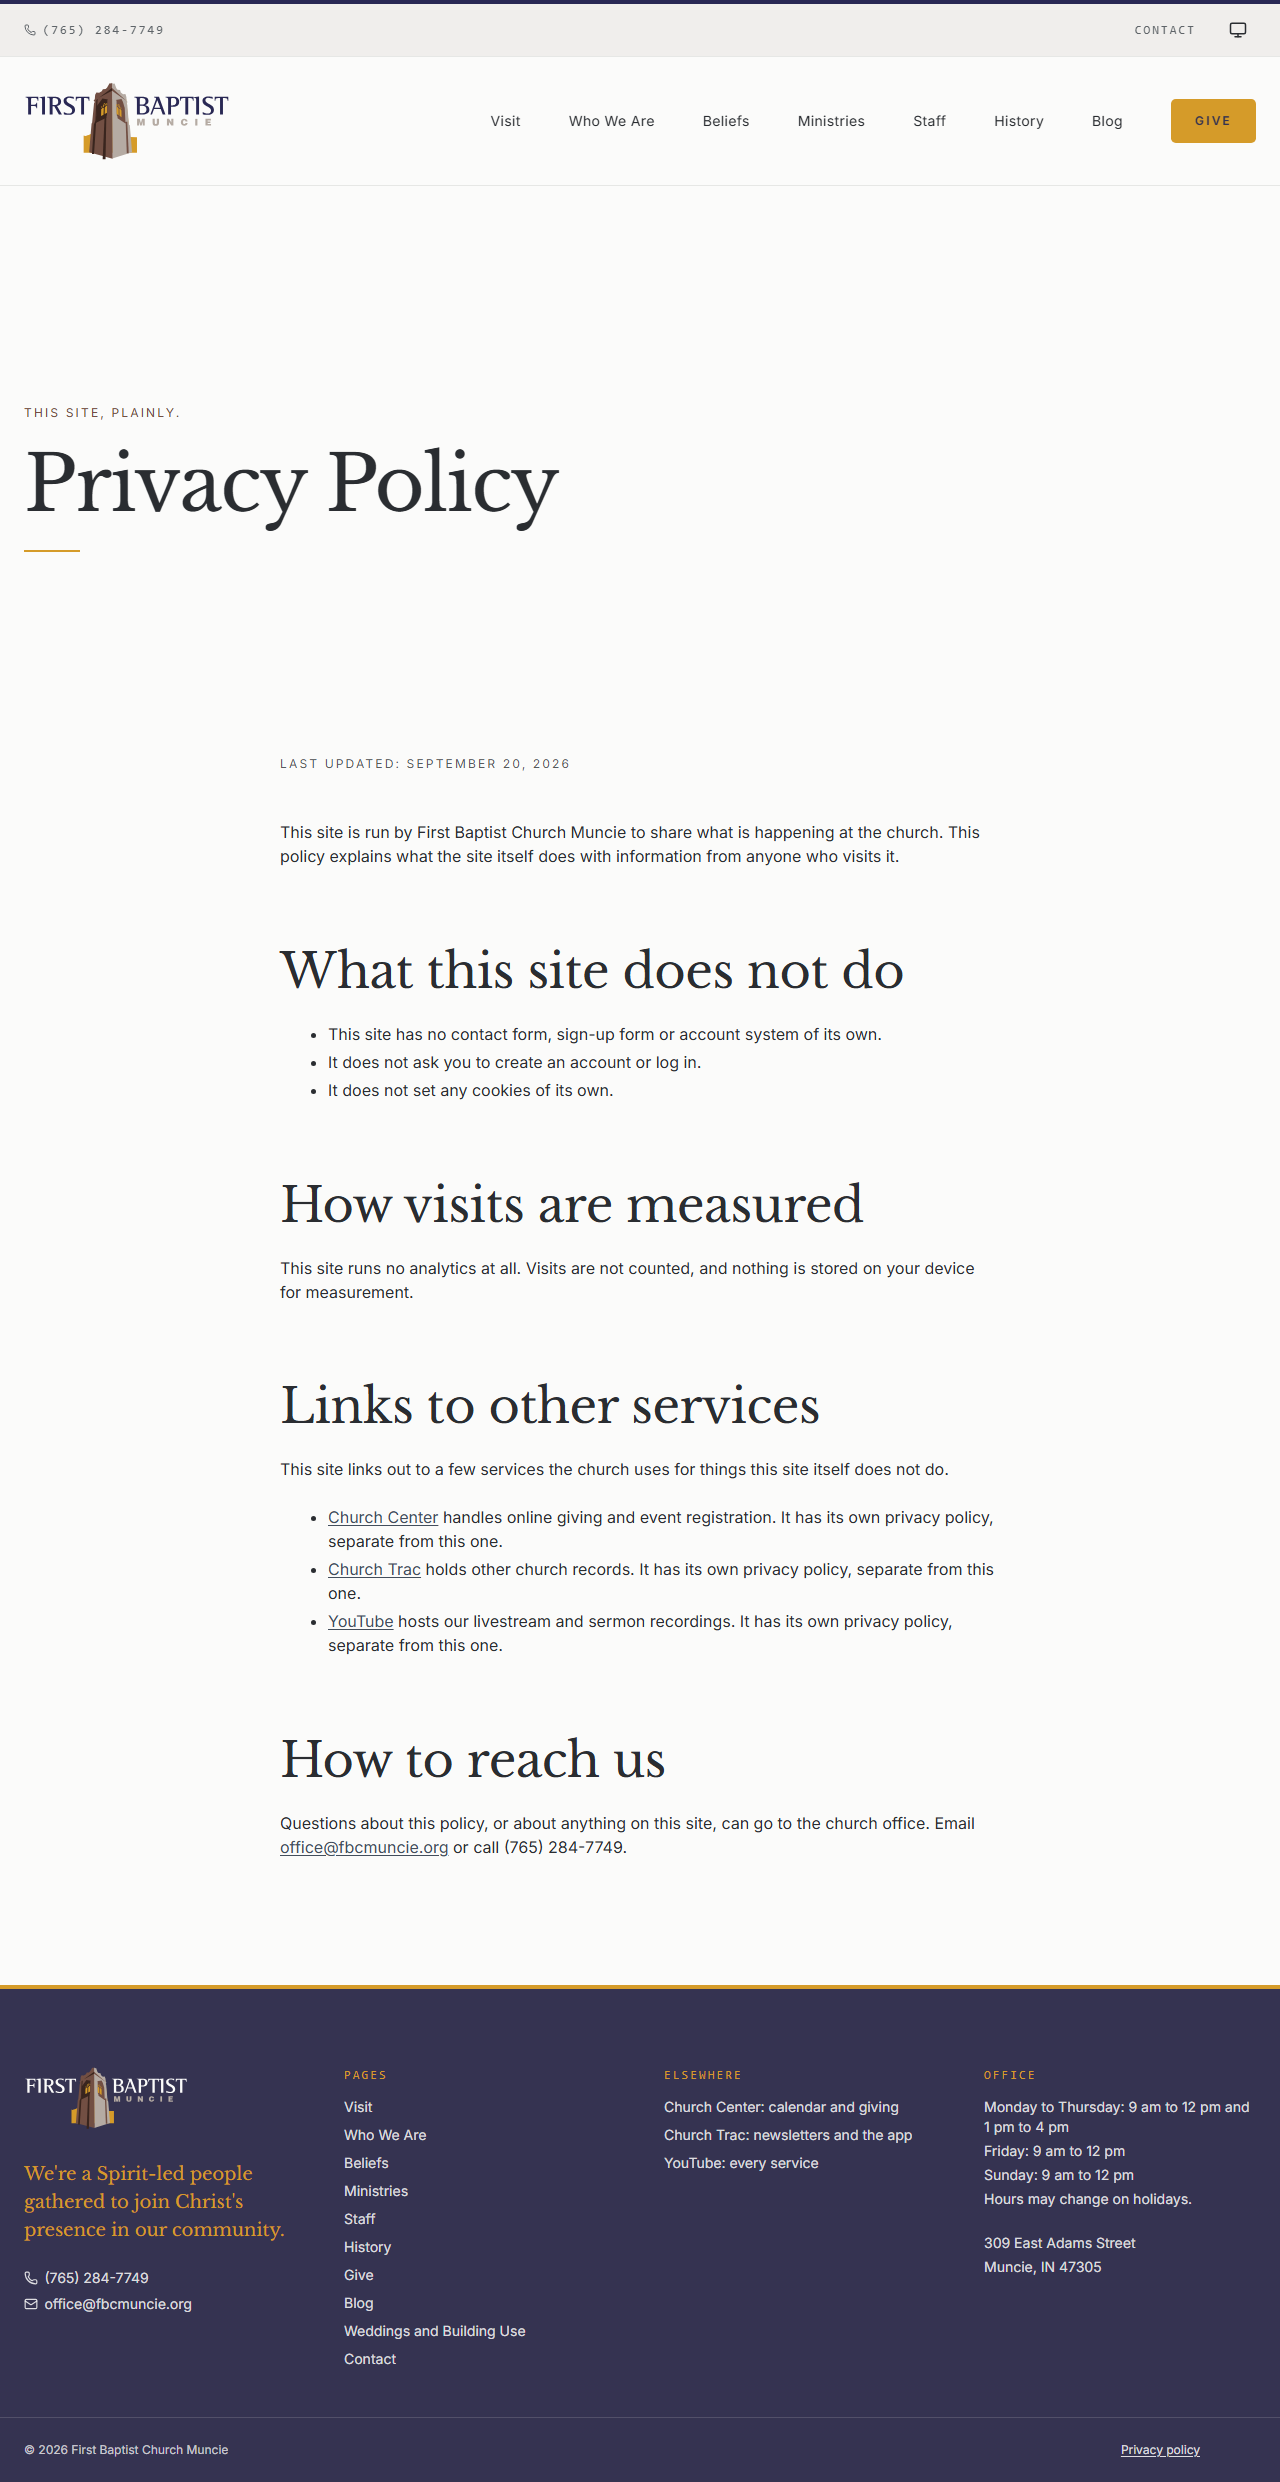
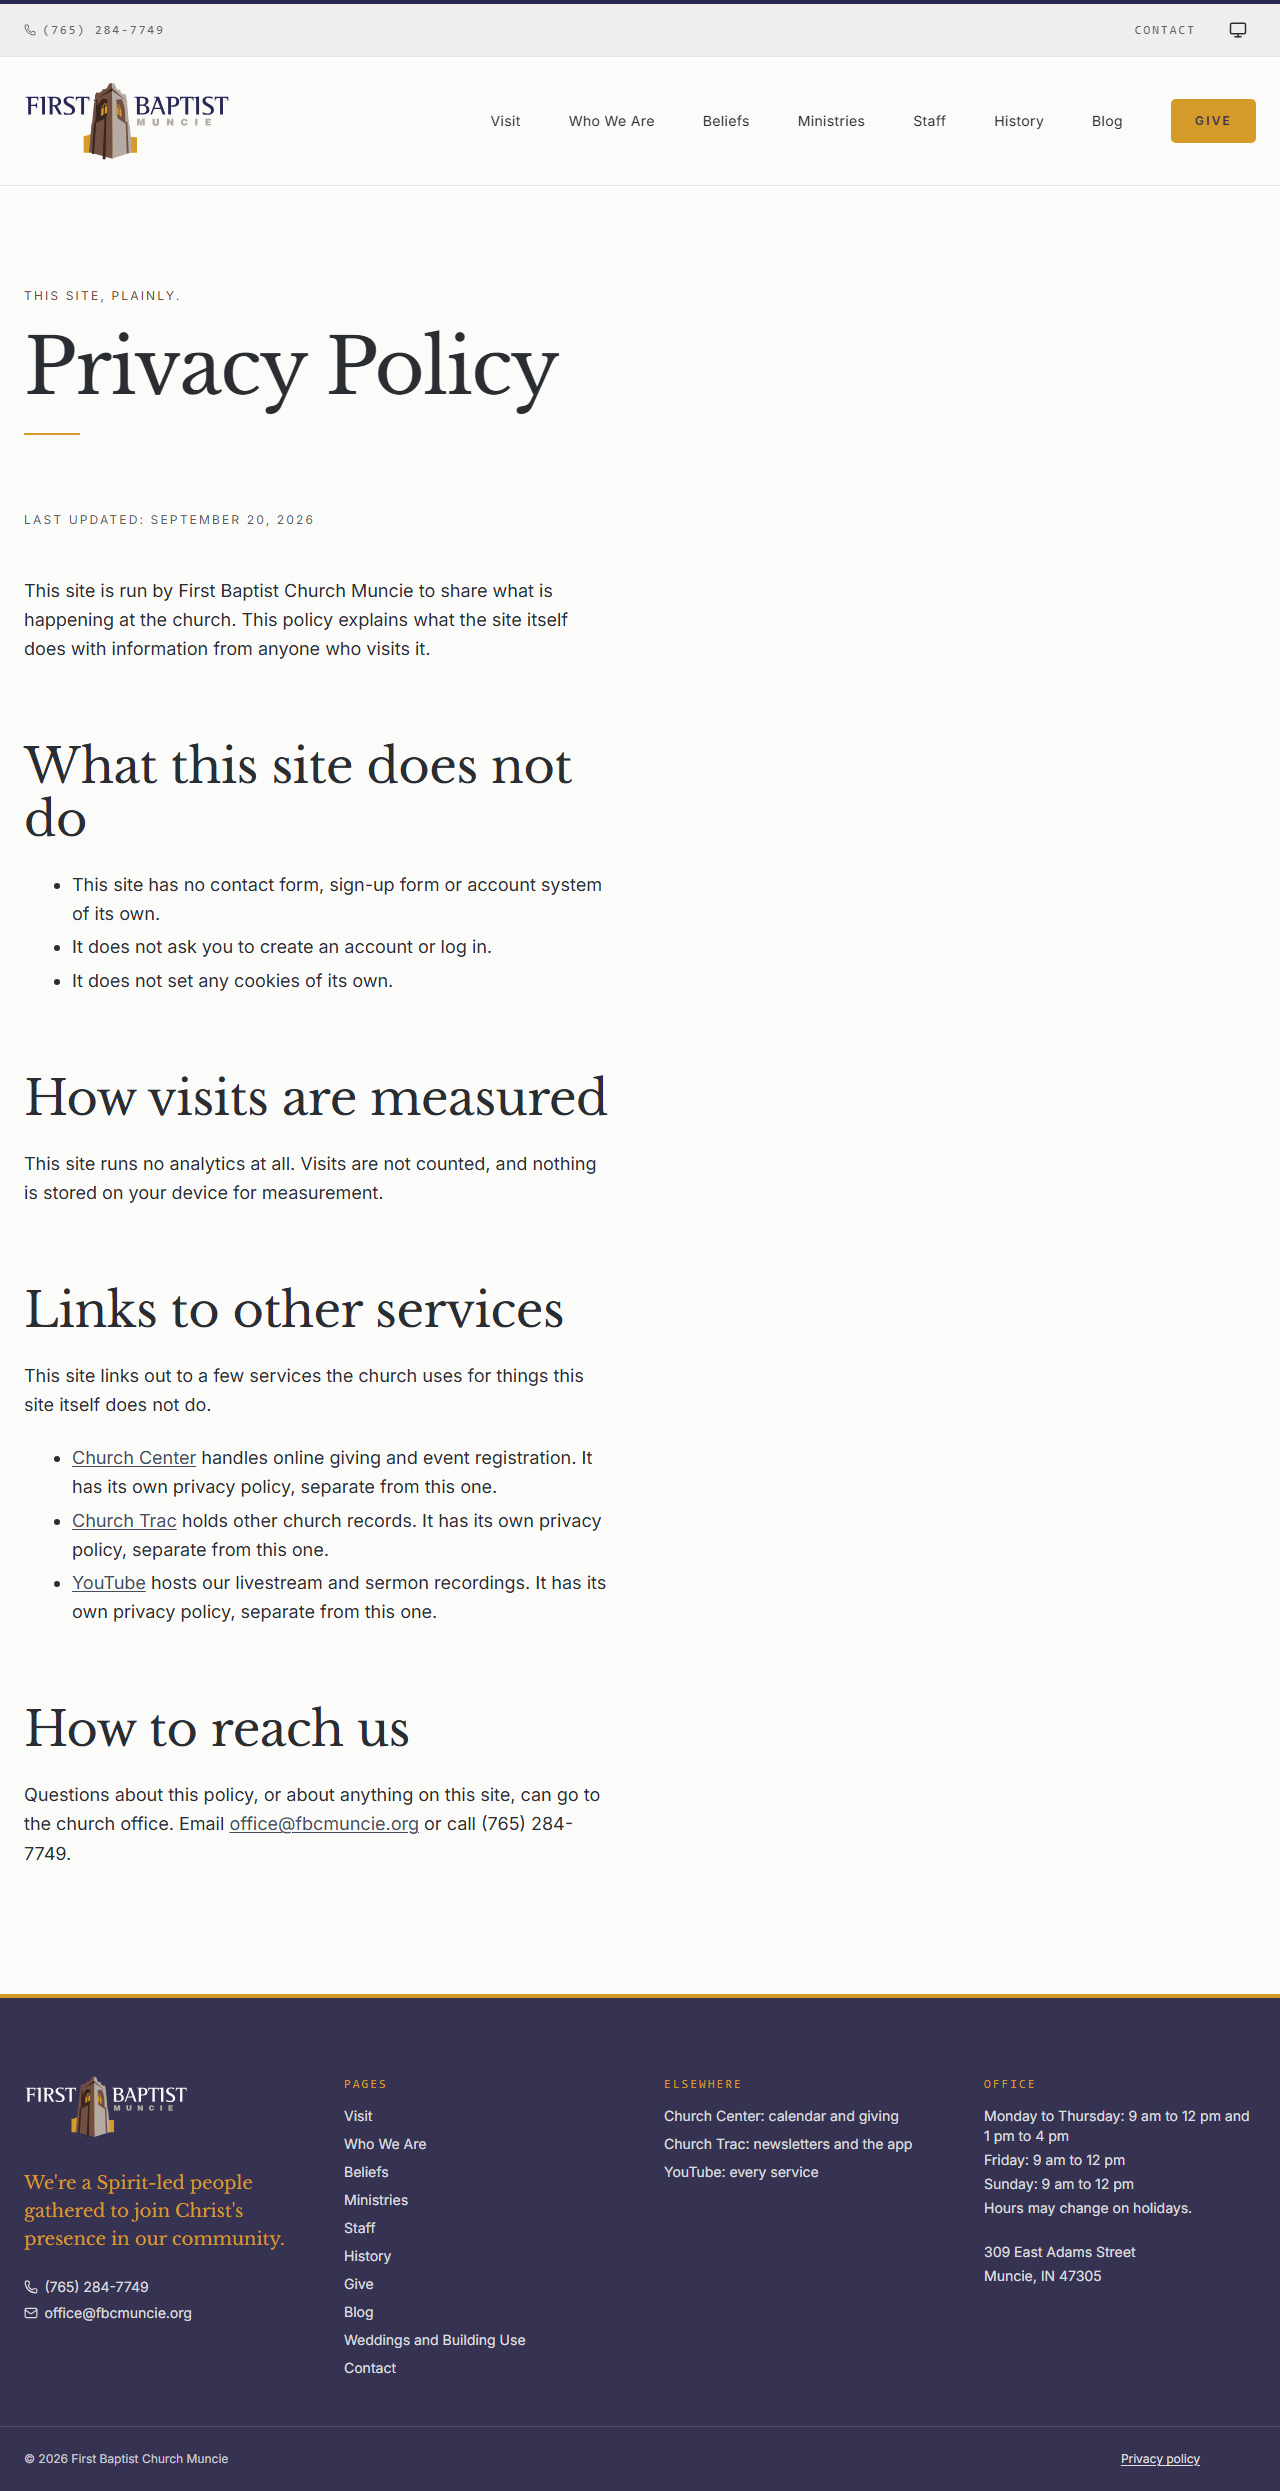
Final review: /privacy joins the site's grammar (F3)
The page opened on the starter's full-bleed Hero and then set its policy text
in 'mx-auto max-w-3xl', a second left edge about 280px in at 1280 with a ~90
character measure, against every other page's max-w-content px-m gutter and
measured 52ch body (CLAUDE.md rule 17). It is now one section at the gutter: a
SectionHeading h1 with the church's gold rule, then the policy directly
beneath it on the same edge, in the same measure.

The measure itself moved out of RichTextSection into src/lib/prose.ts
(PROSE_MEASURE) so the band and the bespoke page read ONE string. A second copy
of '52ch' would have been a second source of truth, and the re-measure note
that justifies the number would have applied to only one of them.

Collapsing to one section also drops the extra aria-label: with no hero there
is exactly one region landmark and it takes its name from the h1.

Captured light and dark at 1280 and 375.

diff --git a/src/lib/prose.ts b/src/lib/prose.ts
@@ -1,0 +1,21 @@
+// Foundation, edit with care
+// =============================================================================
+// prose.ts - the one reading measure for body copy
+// =============================================================================
+// The number is MEASURED, not assumed, and the reasoning lives at the top of
+// src/components/sections/RichTextSection.astro (plan 2b ruling P19): CSS `ch`
+// is the advance width of the digit zero, and this body face sets a zero far
+// wider than its average letter, so `max-w-[68ch]` came out at 88 to 93 real
+// characters a line while 52ch measures 65 to 69. Re-measure in the browser if
+// the body font changes; do not convert it by arithmetic.
+//
+// It lives here rather than inside RichTextSection because /privacy needs the
+// same measure at the same left edge and a second copy of the string is a
+// second source of truth: the two would drift the first time one of them was
+// re-measured. Both the page-builder band and the bespoke page import this.
+//
+// Tailwind scans this file like any other source file, so the utilities named
+// in the string are generated.
+
+/** Body copy: colour, size, leading and the measured 52ch line length. */
+export const PROSE_MEASURE = 'text-foreground/85 text-lg leading-relaxed max-w-[52ch]';
